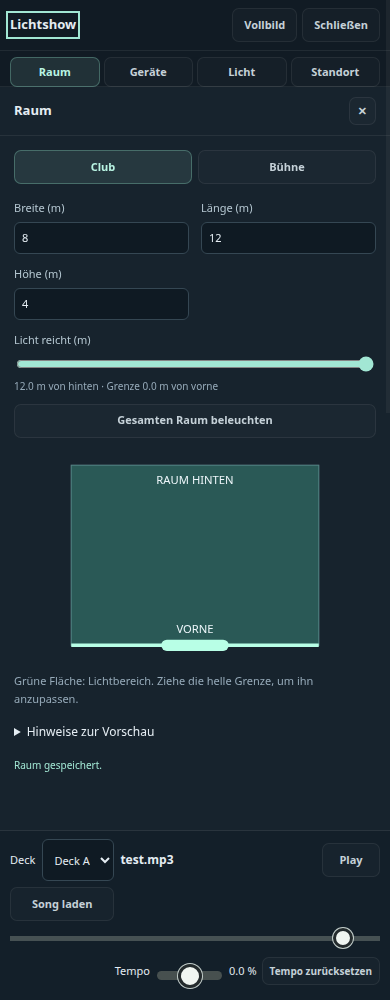
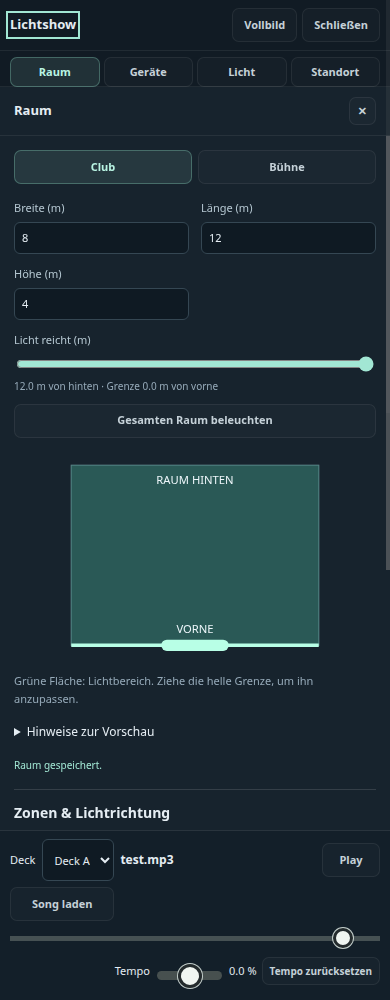
Optimized 3d show

Changed region(s): [[0.9846, 0.124, 1.0, 0.589], [0.0308, 0.806, 0.4308, 0.837]]

diff --git a/public/dmx-zone-plan.js b/public/dmx-zone-plan.js
@@ -1,0 +1,59 @@
+const clamp=(v,a,b)=>Math.max(a,Math.min(b,v));
+const finite=(v,f)=>Number.isFinite(Number(v))?Number(v):f;
+export function zoneSettings(raw={}){
+  const zones=(Array.isArray(raw?.zones)?raw.zones:[]).filter(z=>z&&typeof z==='object').slice(0,24).map((z,i)=>{
+    const width=clamp(finite(z.width,.2),.02,1),depth=clamp(finite(z.depth,.2),.02,1);
+    return {id:String(z.id||i),name:String(z.name||'Ruhezone').slice(0,60),x:clamp(finite(z.x,.4),0,1-width),y:clamp(finite(z.y,.4),0,1-depth),width,depth};
+  });
+  const aims={};for(const [id,p] of Object.entries(raw?.aims||{}))if(p&&typeof p==='object')aims[id]={x:clamp(finite(p.x,.5),0,1),y:clamp(finite(p.y,.5),0,1)};
+  return {zones,aims};
+}
+export function zoneLights(lights,layout,settings){
+  const low=layout.lightMin||0,w=layout.width,d=layout.depth,margin=.25;
+  const boxes=settings.zones.map(z=>({left:(z.x-.5)*w-margin,right:(z.x+z.width-.5)*w+margin,bottom:z.y*d-margin,top:(z.y+z.depth)*d+margin}));
+  const inside=p=>boxes.some(b=>p.x>=b.left&&p.x<=b.right&&p.y>=b.bottom&&p.y<=b.top);
+  return lights.map(light=>{
+    const aim=light.type!=='moving'&&settings.aims[light.id];
+    let target=aim?{x:(aim.x-.5)*w,y:clamp(aim.y*d,low,d)}:{...light.target},power=light.power;
+    if(inside(target)){
+      if(light.type==='moving'){
+        const candidates=boxes.flatMap(b=>[{x:b.left-.01,y:target.y},{x:b.right+.01,y:target.y},{x:target.x,y:b.bottom-.01},{x:target.x,y:b.top+.01},...[[b.left-.01,b.bottom-.01],[b.left-.01,b.top+.01],[b.right+.01,b.bottom-.01],[b.right+.01,b.top+.01]].map(([x,y])=>({x,y}))]).filter(p=>p.x>=-w/2&&p.x<=w/2&&p.y>=low&&p.y<=d&&!inside(p));
+        candidates.sort((a,b)=>Math.hypot(a.x-target.x,a.y-target.y)-Math.hypot(b.x-target.x,b.y-target.y));
+        if(candidates.length)target=candidates[0];else power*=.1;
+      }else power*=.1;
+    }
+    return {...light,target,power};
+  });
+}
+export function createZonePlan(host,{getLayout,onChange}){
+  const key='anydj-3d-zones-v1';let saved;try{saved=JSON.parse(localStorage.getItem(key));}catch{}
+  let settings=zoneSettings(saved),selected=settings.zones[0]?.id||'',fixtures=[],signature='',drag=null;
+  const panel=document.createElement('section');panel.className='stage-3d-zone-plan';
+  panel.innerHTML=`<h3>Zonen & Lichtrichtung</h3><p>Tische und Sitzbereiche markieren oder einen festen Scheinwerfer auswählen und sein Ziel im Plan setzen.</p><div class="stage-3d-zone-actions"><button type="button" class="button secondary" data-zone-add>Ruhezone hinzufügen</button><select data-zone-fixture aria-label="Scheinwerfer ausrichten"><option value="">Zonen bearbeiten</option></select></div><svg data-zone-map viewBox="0 0 300 240" aria-label="Zonenplan: Ruhezone verschieben oder Lichtziel setzen" role="img"><rect x="10" y="10" width="280" height="220" fill="#142b35" stroke="#638891"/><text x="150" y="25" text-anchor="middle" fill="#c5d7df">HINTEN</text><g data-zone-shapes></g><g data-zone-lights></g><text x="150" y="225" text-anchor="middle" fill="#c5d7df">VORNE</text></svg><div data-zone-fields><label>Ruhezone<select data-zone-select></select></label><label>Name<input data-zone-name maxlength="60"></label><div class="stage-3d-room-fields"><label>Von links (m)<input data-zone-x type="number" min="0" step="0.1"></label><label>Von vorne (m)<input data-zone-y type="number" min="0" step="0.1"></label><label>Breite (m)<input data-zone-width type="number" min="0.1" step="0.1"></label><label>Tiefe (m)<input data-zone-depth type="number" min="0.1" step="0.1"></label></div><button type="button" class="button secondary" data-zone-delete>Zone entfernen</button></div><div data-zone-aim hidden><p>Im Plan das gewünschte Lichtziel anklicken. Die Linie zeigt die Ausrichtung.</p><button type="button" class="button secondary" data-zone-reset>Ausrichtung zurücksetzen</button></div><p data-zone-status role="status"></p><small>Nur 3D-Vorschau: Moving Heads weichen den Zielen in Ruhezonen mit 25 cm Rand aus. Feste Scheinwerfer bleiben ausgerichtet und werden dort abgedimmt. Lichtkegel und Schwenkwege können die Zonen weiterhin streifen.</small>`;
+  host.querySelector('.stage-3d-room').append(panel);
+  const q=n=>panel.querySelector(`[data-zone-${n}]`),map=q('map'),svg=(tag,attrs,parent)=>{const e=document.createElementNS('http://www.w3.org/2000/svg',tag);for(const [k,v]of Object.entries(attrs))e.setAttribute(k,v);parent.append(e);return e;};
+  function draw(){
+    const layout=getLayout(),s=settings.zones.find(z=>z.id===selected);q('shapes').replaceChildren();
+    for(const z of settings.zones){const x=10+z.x*280,y=10+(1-z.y-z.depth)*220,width=z.width*280,height=z.depth*220;
+      const g=svg('g',{'data-zone-id':z.id},q('shapes'));svg('rect',{x,y,width,height,rx:3,fill:'#b66b4c',opacity:.6,stroke:z.id===selected?'#ffe2a9':'#dd9a79','stroke-width':z.id===selected?3:1},g);const title=svg('title',{},g);title.textContent=z.name;
+      const label=svg('text',{x:x+5,y:y+Math.min(18,height-3),fill:'#fff1de','font-size':11,'pointer-events':'none'},g);label.textContent=width>35?z.name.slice(0,Math.max(2,Math.floor((width-10)/7))):'';
+      if(z.id===selected)svg('rect',{x:x+width-8,y:y-1,width:9,height:9,fill:'#ffe2a9','data-zone-resize':''},g);
+    }
+    q('lights').replaceChildren();const id=q('fixture').value,fixture=fixtures.find(f=>f.id===id);
+    if(fixture){const aim=settings.aims[id]||{x:fixture.target.x/layout.width+.5,y:fixture.target.y/layout.depth};const x=10+(fixture.position.x/layout.width+.5)*280,y=10+(1-fixture.position.y/layout.depth)*220,tx=10+aim.x*280,ty=10+(1-Math.max(aim.y,(layout.lightMin||0)/layout.depth))*220;svg('line',{x1:x,y1:y,x2:tx,y2:ty,stroke:'#a5eee1','stroke-width':2},q('lights'));svg('circle',{cx:x,cy:y,r:5,fill:'#edf5ff'},q('lights'));svg('circle',{cx:tx,cy:ty,r:7,fill:'none',stroke:'#a5eee1','stroke-width':2},q('lights'));}
+    q('fields').hidden=!s||!!id;q('aim').hidden=!id;q('add').disabled=settings.zones.length>=24;
+    q('select').replaceChildren(...settings.zones.map(z=>new Option(z.name,z.id)));q('select').value=selected;
+    if(s){q('name').value=s.name;for(const n of ['x','y','width','depth'])q(n).value=(s[n]*(n==='x'||n==='width'?layout.width:layout.depth)).toFixed(1);}
+  }
+  function commit(){settings=zoneSettings(settings);try{localStorage.setItem(key,JSON.stringify(settings));q('status').textContent='Zonenplan gespeichert.';}catch{q('status').textContent='Zonenplan gilt für diese Sitzung.';}draw();onChange();}
+  q('add').onclick=()=>{const z={id:crypto.randomUUID(),name:`Ruhezone ${settings.zones.length+1}`,x:.35,y:.35,width:.25,depth:.2};settings.zones.push(z);selected=z.id;q('fixture').value='';commit();};
+  q('select').onchange=()=>{selected=q('select').value;draw();};q('fixture').onchange=draw;
+  q('delete').onclick=()=>{settings.zones=settings.zones.filter(z=>z.id!==selected);selected=settings.zones[0]?.id||'';commit();};
+  q('reset').onclick=()=>{delete settings.aims[q('fixture').value];commit();};
+  for(const n of ['name','x','y','width','depth'])q(n).onchange=()=>{const z=settings.zones.find(z=>z.id===selected);if(!z)return;if(n==='name')z.name=q(n).value;else{if(!q(n).checkValidity()||!Number.isFinite(q(n).valueAsNumber)){draw();return;}z[n]=q(n).valueAsNumber/(n==='x'||n==='width'?getLayout().width:getLayout().depth);}commit();};
+  const point=e=>{const p=new DOMPoint(e.clientX,e.clientY).matrixTransform(map.getScreenCTM().inverse());return {x:clamp((p.x-10)/280,0,1),y:clamp(1-(p.y-10)/220,0,1)};};
+  map.onpointerdown=e=>{if(e.button!==0)return;const p=point(e),id=q('fixture').value;if(id){p.y=Math.max(p.y,(getLayout().lightMin||0)/getLayout().depth);settings.aims[id]=p;commit();return;}const node=e.target.closest('[data-zone-id]');if(!node)return;e.preventDefault();selected=node.dataset.zoneId;const z=settings.zones.find(z=>z.id===selected);drag={id:e.pointerId,p,z:{...z},resize:e.target.hasAttribute('data-zone-resize')};map.setPointerCapture(e.pointerId);draw();};
+  map.onpointermove=e=>{if(!drag||drag.id!==e.pointerId)return;const p=point(e),z=settings.zones.find(z=>z.id===selected),dx=p.x-drag.p.x,dy=p.y-drag.p.y;if(drag.resize){z.width=clamp(drag.z.width+dx,.02,1-z.x);z.depth=clamp(drag.z.depth+dy,.02,1-z.y);}else{z.x=clamp(drag.z.x+dx,0,1-z.width);z.y=clamp(drag.z.y+dy,0,1-z.depth);}commit();};
+  map.onpointerup=map.onpointercancel=map.onlostpointercapture=()=>{drag=null;};draw();
+  return {get value(){return settings;},update(lights){fixtures=[...new Map(lights.filter(l=>l.type!=='moving').map(l=>[l.id,l])).values()];const next=JSON.stringify([getLayout(),fixtures.map(f=>[f.id,f.position,f.target])]);if(next===signature)return;signature=next;const id=q('fixture').value;q('fixture').replaceChildren(new Option('Zonen bearbeiten',''),...fixtures.map((f,i)=>new Option(`${f.type==='bar'?'Lichtleiste':'Scheinwerfer'} ${i+1}`,f.id)));q('fixture').value=fixtures.some(f=>f.id===id)?id:'';draw();},destroy(){panel.remove();}};
+}

diff --git a/public/dmx-stage-3d-renderer.js b/public/dmx-stage-3d-renderer.js
@@ -44,25 +44,83 @@ export function stageCamera(layout,camera,width,height){
   project.depth=depth;
   return project;
 }
+// Follow the audible deck, retaining it around equal crossfader weights.
+// Beat positions may be numbers (demo) or interpolated beat-grid samples.
+export function createCrowdMotion(){
+  let source=null,lastTime=null,lastBeat=null,synced=false,transition=0;
+  let motion={beat:0,energy:.7,blend:1,from:null};
+  const beatValue=value=>Number.isFinite(value)?value:
+    Number.isFinite(value?.index)&&Number.isFinite(value?.phase)?value.index+value.phase:null;
+  return (music={},now=0)=>{
+    const dt=lastTime===null?0:Math.max(0,Math.min(.1,now-lastTime));lastTime=now;
+    const streams=music.streams||[];
+    const candidates=streams.map((stream,index)=>({...stream,key:stream.source??stream.movingPlan??index}))
+      .filter(s=>s.weight>0&&(s.playing??Boolean(s.frame)));
+    candidates.sort((a,b)=>b.weight-a.weight);
+    const previous=candidates.find(s=>s.key===source),leader=candidates[0];
+    const selected=previous&&leader&&leader.weight-previous.weight<.08?previous:leader;
+    // A loaded but paused/muted song freezes the pose. An empty show keeps its idle dance.
+    if(!selected&&streams.some(s=>s.source!=null||s.movingPlan))return motion;
+    const raw=beatValue(selected?.beat),hasBeat=raw!==null,key=selected?.key??'idle';
+    const beat=hasBeat?raw:motion.beat+dt*2;
+    const jump=hasBeat&&lastBeat!==null&&(raw-lastBeat<-.05||raw-lastBeat>Math.max(1,dt*8));
+    const changed=source!==null&&(source!==key||synced!==hasBeat||jump);
+    if(changed){motion={...motion,from:{beat:motion.beat,energy:motion.energy},blend:0};transition=0;}
+    transition+=dt;
+    const targetEnergy=({peak:1,build:.85,break:.45,intro:.55,outro:.55})[selected?.look]??.7;
+    motion={beat,energy:motion.energy+(targetEnergy-motion.energy)*(1-Math.exp(-dt*4)),
+      from:motion.from,blend:motion.from?Math.min(1,transition/.4):1};
+    if(motion.blend===1)motion.from=null;
+    source=key;lastBeat=raw;synced=hasBeat;
+    return motion;
+  };
+}
+const smooth=value=>{const t=Math.max(0,Math.min(1,value));return t*t*(3-2*t);};
+function dancePose(beat,index,energy){
+  const block=Math.floor(beat/16),style=((block+index)%4+4)%4;
+  const amount=smooth(beat-block*16); // one beat to change style every sixteen beats
+  const phase=beat*Math.PI*2,sidePhase=beat*Math.PI;
+  const strength=(.75+(index%3)*.1)*energy,mirror=index%2?-1:1;
+  function pose(kind){
+    const bounce=(1-Math.cos(phase))*.045*strength;
+    const sway=Math.sin(sidePhase)*(.045+(kind===0?.045:0))*strength*mirror;
+    const hop=kind===3?Math.max(0,Math.sin(phase))*.13*strength:0;
+    const point=(x,z)=>[x,0,z+hop];
+    const hip=point(sway,.82-bounce),neck=point(sway*1.4,1.4-bounce);
+    const joints=[hip,neck];
+    for(const side of [-1,1]){
+      const step=kind===0?Math.max(0,Math.sin(sidePhase)*side)*.08*strength:0;
+      const knee=point(side*.2+sway*.5,.42-bounce+step);
+      const foot=point(side*(.26+step*.5),step);
+      const wave=Math.sin(sidePhase+side*Math.PI/2)*strength;
+      const elbow=point(sway*1.4+side*.29,(kind===2?1.48:1.12)+wave*.12-bounce);
+      const hand=point(sway*1.4+side*(kind===1?.42:.38),
+        (kind===2?1.79:kind===3?1.52:1.32)+wave*(kind===1?.28:.1)-bounce);
+      joints.push(knee,foot,elbow,hand);
+    }
+    joints.push(point(sway*1.4,1.59-bounce));
+    return joints;
+  }
+  const current=pose(style),previous=pose((style+3)%4);
+  return current.map((p,i)=>p.map((v,j)=>previous[i][j]+(v-previous[i][j])*amount));
+}
 // Normalized floor positions survive room resizing and stage/club switches.
-export function stickFigureSegments(layout,person,time=0,index=0){
+export function stickFigureSegments(layout,person,motion=0,index=0){
+  if(typeof motion==='number')motion={beat:motion,energy:.7};
+  let joints=dancePose(motion.beat,index,motion.energy??.7);
+  if(motion.from&&motion.blend<1){
+    const previous=dancePose(motion.from.beat,index,motion.from.energy),blend=smooth(motion.blend);
+    joints=joints.map((p,i)=>p.map((v,j)=>previous[i][j]+(v-previous[i][j])*blend));
+  }
   const depth=layout.room?layout.depth:Math.max(4,layout.depth);
   const x=(person.x-.5)*Math.max(0,layout.width-1.2);
   const y=layout.room?.6+person.y*Math.max(0,depth-1.2):-.6-person.y*Math.max(0,depth-1.2);
-  const phase=time*Math.PI*2+index*1.7,sway=Math.sin(phase)*.09,bounce=(1-Math.cos(phase*2))*.045;
-  const point=(dx,z)=>[x+dx,y,z];
-  const hip=point(sway,.82-bounce),neck=point(sway*1.5,1.4-bounce);
-  const segments=[[hip,neck]];
-  for(const side of [-1,1]){
-    const knee=point(side*.2+sway*.5,.42-bounce),foot=point(side*.26,0);
-    const elbow=point(sway*1.5+side*.29,1.12+Math.sin(phase+side)*.18-bounce);
-    const hand=point(sway*1.5+side*.46,1.4+Math.sin(phase+side)*.25-bounce);
-    segments.push([hip,knee],[knee,foot],[neck,elbow],[elbow,hand]);
-  }
-  for(let i=0;i<12;i++){
-    const head=a=>point(sway*1.5+Math.cos(a)*.14,1.59-bounce+Math.sin(a)*.14);
-    segments.push([head(i*Math.PI/6),head((i+1)*Math.PI/6)]);
-  }
+  const points=joints.map(p=>[x+p[0],y+p[1],p[2]]);
+  const segments=[[points[0],points[1]]];
+  for(const offset of [2,6])segments.push([points[0],points[offset]],[points[offset],points[offset+1]],
+    [points[1],points[offset+2]],[points[offset+2],points[offset+3]]);
+  const center=points[10],head=a=>[center[0]+Math.cos(a)*.14,center[1],center[2]+Math.sin(a)*.14];
+  for(let i=0;i<12;i++)segments.push([head(i*Math.PI/6),head((i+1)*Math.PI/6)]);
   return segments;
 }
 export function renderStage3d(ctx,width,height,layout,lights,camera,crowd=[],time=0){
@@ -94,6 +152,11 @@ export function renderStage3d(ctx,width,height,layout,lights,camera,crowd=[],tim
     for(const y of [0,d])line([-w,y,layout.height],[w,y,layout.height],'#365363');
     for(const x of [-w,w])line([x,0,layout.height],[x,d,layout.height],'#365363');
   }else line([-w,0,.01],[w,0,.01],'#9abec8');paint();
+  for(const zone of layout.zones||[]){
+    const x=(zone.x-.5)*layout.width,y=zone.y*d,x2=x+zone.width*layout.width,y2=y+zone.depth*d;
+    polygon([[x,y,.025],[x2,y,.025],[x2,y2,.025],[x,y2,.025]],'#9c634c',.45,'#e6ac80');
+  }
+  paint();
   for(const light of lights){
     if(light.power<=0)continue;
     const p=[light.position.x,light.position.y,light.position.height],t=[light.target.x,light.target.y,.015];

diff --git a/public/dmx-stage-3d.js b/public/dmx-stage-3d.js
@@ -1,3 +1,4 @@
+import {createZonePlan,zoneLights} from './dmx-zone-plan.js';
 import {createStageWorkspace} from './dmx-stage-workspace.js';
 import {createRoomSettings,roomLayout,roomLights} from './dmx-room.js';
 import {createStageTransport} from './dmx-stage-transport.js';
@@ -39,10 +40,12 @@ export function createStage3d(host,controls,{getLayout,mountLayout,mountLighting
   let enabled=false,disposed=false,visible=true,renderer=null,loading=null,raf=0,lights=[],moving=[],drag=null;
   const room=createRoomSettings(panel,{getLayout,onChange:()=>{if(room.value.enabled){dancer.y=Math.max(.15,dancer.y);q('dancer-aim').checked=false;}syncDancer();requestDraw();}});
   const viewLayout=()=>room.value.enabled?roomLayout(room.value):getLayout();
+  const zones=createZonePlan(panel,{getLayout:viewLayout,onChange:()=>requestDraw()});
   const initial=()=>({yaw:.32,pitch:.55,zoom:1});let camera=initial(),overview=initial();
   const dancer={mode:'dancer',x:0,y:room.value.enabled?room.value.depth*.25:-Math.min(3,getLayout().depth),eyeHeight:1.7,yaw:0,pitch:0,zoom:1};
   const q=name=>panel.querySelector(`[data-${name}]`),dancerButton=q('dancer'),dancerTools=panel.querySelector('.stage-3d-dancer');
   const clamp=(v,a,b)=>Math.max(a,Math.min(b,v));
+  let crowdMotion=null,music={};
   const reducedMotion=matchMedia('(prefers-reduced-motion: reduce)');
   let crowdEnabled=false,placingPeople=false,crowdMapLayout='';
   let crowd=Array.from({length:8},(_,i)=>({x:.15+(i%4)*.23,y:.25+Math.floor(i/4)*.48}));
@@ -129,7 +132,9 @@ export function createStage3d(host,controls,{getLayout,mountLayout,mountLighting
     if(canvas.width!==Math.round(width*scale)||canvas.height!==Math.round(height*scale)){canvas.width=Math.round(width*scale);canvas.height=Math.round(height*scale);}
     if(camera.mode==='dancer')syncDancer();
     const layout=getLayout(),previewMoving=q('dancer-aim').checked?moving.map(h=>({...h,target:{x:h.target.x,y:-Math.max(4,layout.depth)*(.1+.8*h.target.y/layout.depth)}})):moving;
-    ctx.setTransform(scale,0,0,scale,0,0);renderer(ctx,width,height,viewLayout(),room.value.enabled?roomLights([...lights,...moving],layout,room.value):[...lights,...previewMoving],camera,crowdEnabled?crowd:[],reducedMotion.matches?0:performance.now()/1000);
+    const mapped=room.value.enabled?roomLights([...lights,...moving],layout,room.value):[...lights,...previewMoving];
+    zones.update(mapped);
+    ctx.setTransform(scale,0,0,scale,0,0);renderer(ctx,width,height,{...viewLayout(),zones:zones.value.zones},zoneLights(mapped,viewLayout(),zones.value),camera,crowdEnabled?crowd:[],reducedMotion.matches?0:(crowdEnabled?crowdMotion(music,performance.now()/1000):0));
   }
   async function activate(){
     enabled=!enabled;panel.hidden=!enabled;toggle.textContent=enabled?'3D-Bühne ausschalten':'3D-Bühne einschalten';toggle.setAttribute('aria-pressed',String(enabled));
@@ -137,7 +142,7 @@ export function createStage3d(host,controls,{getLayout,mountLayout,mountLighting
     if(!enabled)return;
     if(!dialog.open){expand.click();returnFocus=toggle;}
     if(!ctx){status.textContent='Die 3D-Vorschau ist in diesem Browser nicht verfügbar.';return;}
-    try{loading??=import('./dmx-stage-3d-renderer.js');renderer=(await loading).renderStage3d;requestDraw();}
+    try{loading??=import('./dmx-stage-3d-renderer.js');const module=await loading;renderer=module.renderStage3d;crowdMotion??=module.createCrowdMotion();requestDraw();}
     catch{loading=null;status.textContent='3D-Vorschau konnte nicht geladen werden. Zum erneuten Versuch aus- und einschalten.';}
   }
   toggle.onclick=activate;
@@ -179,7 +184,8 @@ export function createStage3d(host,controls,{getLayout,mountLayout,mountLighting
     openTools:name=>workspace.show(name),
     setTransport:transport.setApi,
     get enabled(){return enabled;},
-    update(fixtures,heads){
+    update(fixtures,heads,musicState={}){
+      music=musicState;
       if(!enabled)return;
       transport.update();workspace?.update();
       const layout=getLayout();moving=heads.map(h=>({...h,type:'moving'}));
@@ -189,10 +195,10 @@ export function createStage3d(host,controls,{getLayout,mountLayout,mountLighting
         return f.cells.map((rgb,i)=>{
           const power=Math.max(...rgb)/255,color=power?rgb.map(v=>Math.round(v/power)):[0,0,0];
           const x=p.x+(f.type==='bar'?(i-(f.cells.length-1)/2)*.22:0);
-          return {type:f.type,position:{...p,x},target:{x,y:layout.depth*.1},color:`rgb(${color.join(',')})`,power};
+          return {id,type:f.type,position:{...p,x},target:{x,y:layout.depth*.1},color:`rgb(${color.join(',')})`,power};
         });
       });requestDraw();
     },
-    destroy(){workspace.destroy();room.destroy();transport.destroy();disposed=true;cancelAnimationFrame(raf);resize.disconnect();intersection.disconnect();document.removeEventListener('visibilitychange',visibility);dialog.close();dialog.remove();marker.remove();panel.remove();toggle.remove();stylesheet.remove();}
+    destroy(){workspace.destroy();zones.destroy();room.destroy();transport.destroy();disposed=true;cancelAnimationFrame(raf);resize.disconnect();intersection.disconnect();document.removeEventListener('visibilitychange',visibility);dialog.close();dialog.remove();marker.remove();panel.remove();toggle.remove();stylesheet.remove();}
   };
 }

diff --git a/public/dj.js b/public/dj.js
@@ -736,7 +736,7 @@ function updateLightPreview(){
     const grid=plan?.beatGrid?.beats||plan?.beatTiming?.times;
     const firstBeat=grid?.findIndex(t=>t>=motif?.start);
     const startBeat=motif?(beatPosition(grid,motif.start)??(firstBeat>=0?firstBeat:null)):null;
-    return {motionCharacter:stageMotionAt(plan,time),palette:songPaletteAt(plan,time),movingPlan:plan,songTime:time,motifColor:motif?.color,motionBeat:absoluteBeat!==null&&startBeat!==null?absoluteBeat-startBeat:null,frame:current[i],weight:weights[i],beat:beatPosition(plan?.beatGrid?.beats||plan?.beatTiming?.times,time),look:section?.look,sectionProgress:section?(time-section.start)/Math.max(.001,section.end-section.start):0,
+    return {source:deck.track?`${deck.name}:${deck.track.id}`:null,playing:!deck.audio.paused&&!deck.audio.seeking,motionCharacter:stageMotionAt(plan,time),palette:songPaletteAt(plan,time),movingPlan:plan,songTime:time,motifColor:motif?.color,motionBeat:absoluteBeat!==null&&startBeat!==null?absoluteBeat-startBeat:null,frame:current[i],weight:weights[i],beat:beatPosition(plan?.beatGrid?.beats||plan?.beatTiming?.times,time),look:section?.look,sectionProgress:section?(time-section.start)/Math.max(.001,section.end-section.start):0,
       accentStrength:stageAccentStrength(plan,time),washDimming:stageWashDimming(plan,time),sectionKey:section?`${deck.track.id}:${section.start}`:null,sectionName:section?`${deck.track.name} · ${section.title||section.label||section.lookLabel||'Abschnitt'}`:''};
   });
   fullMode.update(mixedFrame,lightStreams);

diff --git a/public/dmx-stage-3d.css b/public/dmx-stage-3d.css
@@ -124,3 +124,10 @@ html:has(.stage-3d-dialog[open]){overflow:hidden}body:has(.stage-3d-dialog[open]
 .stage-3d .stage-3d-song-editor .le-combined .le-move{display:flex;align-items:flex-start;padding:6px 10px;text-shadow:0 1px 3px #000}
 .stage-3d .stage-3d-song-editor .le-combined .le-move:hover{background:#ffffff0a}
 .stage-3d .stage-3d-song-editor .le-combined .le-playhead{z-index:3}
+
+.stage-3d-zone-plan{border-top:1px solid #ffffff20;margin-top:16px;padding-top:12px}
+.stage-3d-zone-plan h3{font-size:14px;margin:0 0 8px}.stage-3d-zone-plan p,.stage-3d-zone-plan small{font-size:11px;line-height:1.6}
+.stage-3d-zone-actions{display:flex;flex-wrap:wrap;gap:8px;margin:12px 0}.stage-3d-zone-actions>*{flex:1;min-width:0}
+.stage-3d-zone-plan [data-zone-map]{display:block;width:100%;max-height:320px;touch-action:none;margin:12px 0}
+.stage-3d-zone-plan [data-zone-lights]{pointer-events:none}.stage-3d-zone-plan [data-zone-id]{cursor:move}.stage-3d-zone-plan [data-zone-resize]{cursor:nesw-resize}
+.stage-3d-zone-plan label{display:flex;flex-direction:column;gap:5px;margin-bottom:10px}.stage-3d-zone-plan select,.stage-3d-zone-plan input{width:100%;min-width:0}

diff --git a/public/dmx-stage.js b/public/dmx-stage.js
@@ -145,7 +145,7 @@ export function createDmxStage(button,{adjustFrame=frame=>frame,getMovingPlans=(
     const universe=encodeStage(blackout?null:output,equipment),fixtures=decodeStage(universe,equipment);
     movingHeads.update(fixtures,adjustFrame(sample),t,blackout,inputs,editor.mode,editor.count);
     layout.setLights(fixtures);
-    stage3d.update(fixtures,movingPreview);
+    stage3d.update(fixtures,movingPreview,{streams:inputs});
     fixtures.forEach((f,i)=>f.cells.forEach((rgb,j)=>{
       const target=nodes[i][j];
       target.style.setProperty('--stage-color',`rgb(${rgb.join(',')})`);

diff --git a/reports/dmx-stage-3d.md b/reports/dmx-stage-3d.md
@@ -201,11 +201,22 @@ Bühnen-/Club-Modus an und gelten nur für die aktuelle Sitzung.
 
 Die Figuren verwenden die vorhandene Projektion und Tiefensortierung mit
 Lichtkegeln, ohne Schatten oder Kollisionen. Animation im bestehenden 50-ms-Takt,
-keine zusätzlichen Timer oder Abhängigkeiten. Bewegungen sind zeitbasiert,
-nicht mit dem Songbeat synchronisiert. Bei reduzierter Bewegung bleiben die
+keine zusätzlichen Timer oder Abhängigkeiten. Die Bewegung folgt der Beat-Position des hörbaren Decks, einschließlich
+Tempoänderungen. Vier Stile (Seitwärtsschritte, Armschwingen, Hände hoch,
+leichtes Hüpfen) wechseln pro Figur alle 16 Beats mit einem Beat Übergang.
+Die Figuren unterscheiden sich in Stil, Bewegungsstärke und Bewegungsrichtung,
+behalten jedoch den gemeinsamen Beat. Ruhige Songabschnitte dämpfen die Bewegung.
+Nahe gleicher Decklautstärke bleibt das bisherige Deck maßgeblich; deutliche
+Deckwechsel und größere Positionssprünge werden über 400 ms überblendet.
+Bei pausierten oder stumm gemischten geladenen Decks bleibt die Pose stehen.
+Ohne verwertbares Beat-Raster läuft eine zeitbasierte Ersatzanimation; bei leerer
+Show bleibt die freie Animation zum Ausprobieren verfügbar. Bei reduzierter Bewegung bleiben die
 Figuren still; ausgeblendete Ansichten zeichnen weiterhin nicht.
 Geometrietest und Browserprüfung decken Aktivierung, Animation, reduzierte
 Bewegung, Platzieren/Entfernen, Mengenlimit und Abschalten ab.
+Zusätzliche Tests prüfen Beat-Interpolation, Tempoänderung, Pause, stummen Mix,
+Deckwechsel, Positionssprünge und stetige Stilübergänge. Der Audio-Browsertest
+prüft außerdem animierte Wiedergabe und eingefrorene Figuren bei Pause.
 Screenshot: `dmx-stage-3d-crowd.png`.
 
 Der eigenständige Abschnittseditor bleibt außerhalb der 3D-Ansicht verfügbar.
@@ -218,3 +229,25 @@ in einer gemeinsamen Zeitleiste. Der vorhandene Verlauf-Canvas wird in die
 Timeline eingebettet und teilt Zoom, Scrollposition und Abspielstrich. Die
 separate Verlaufskarte entfällt nur im 3D-Arbeitsfenster. Der Browsercheck
 prüft zusätzlich die deckungsgleichen Zeitachsen bei dreifachem Zoom.
+
+## Zonenplan und feste Lichtrichtung
+
+Unter Raum → Zonen & Lichtrichtung lassen sich bis zu 24 rechteckige Ruhezonen
+anlegen, benennen, verschieben und am hellen Eckgriff skalieren. Alternativ
+Position von links/vorne und Maße in Metern eingeben. Im selben Plan einen
+festen Scheinwerfer oder eine Lichtleiste auswählen und sein Bodenziel anklicken;
+„Ausrichtung zurücksetzen“ stellt die ursprüngliche Richtung wieder her.
+
+Zonen und Ziele werden proportional unter `anydj-3d-zones-v1` gespeichert.
+Die 3D-Vorschau markiert die Bodenflächen. Moving-Head-Ziele innerhalb einer
+Zone weichen auf den nächsten geprüften freien Randpunkt mit 25 cm Abstand aus.
+Ist kein Kandidat frei, wird auf 10 % reduziert. Feste Geräte behalten ihre
+gewählte Richtung und werden bei Zielkonflikten ebenfalls auf 10 % reduziert.
+Dies sind praktische Rücksichtszonen auf dem Boden, keine Strahlwegprüfung:
+Lichtkegel und Übergänge können die Flächen weiterhin treffen. Diese erste
+Umsetzung ändert ausschließlich die Vorschau, keine DMX-/WiZ-Ausgaben.
+
+Eigenes Modul `dmx-zone-plan.js` mit eigener Route, UI und Speicherung; keine
+Änderung des bisherigen Geräte-/Showformats. Tests prüfen Zielkorrektur,
+Abdimmen, gespeicherte Grenzen und unveränderte Quelldaten. Der Browserablauf
+prüft Anlegen, Maße, Benennen, Zielwahl, Zurücksetzen und Entfernen.
